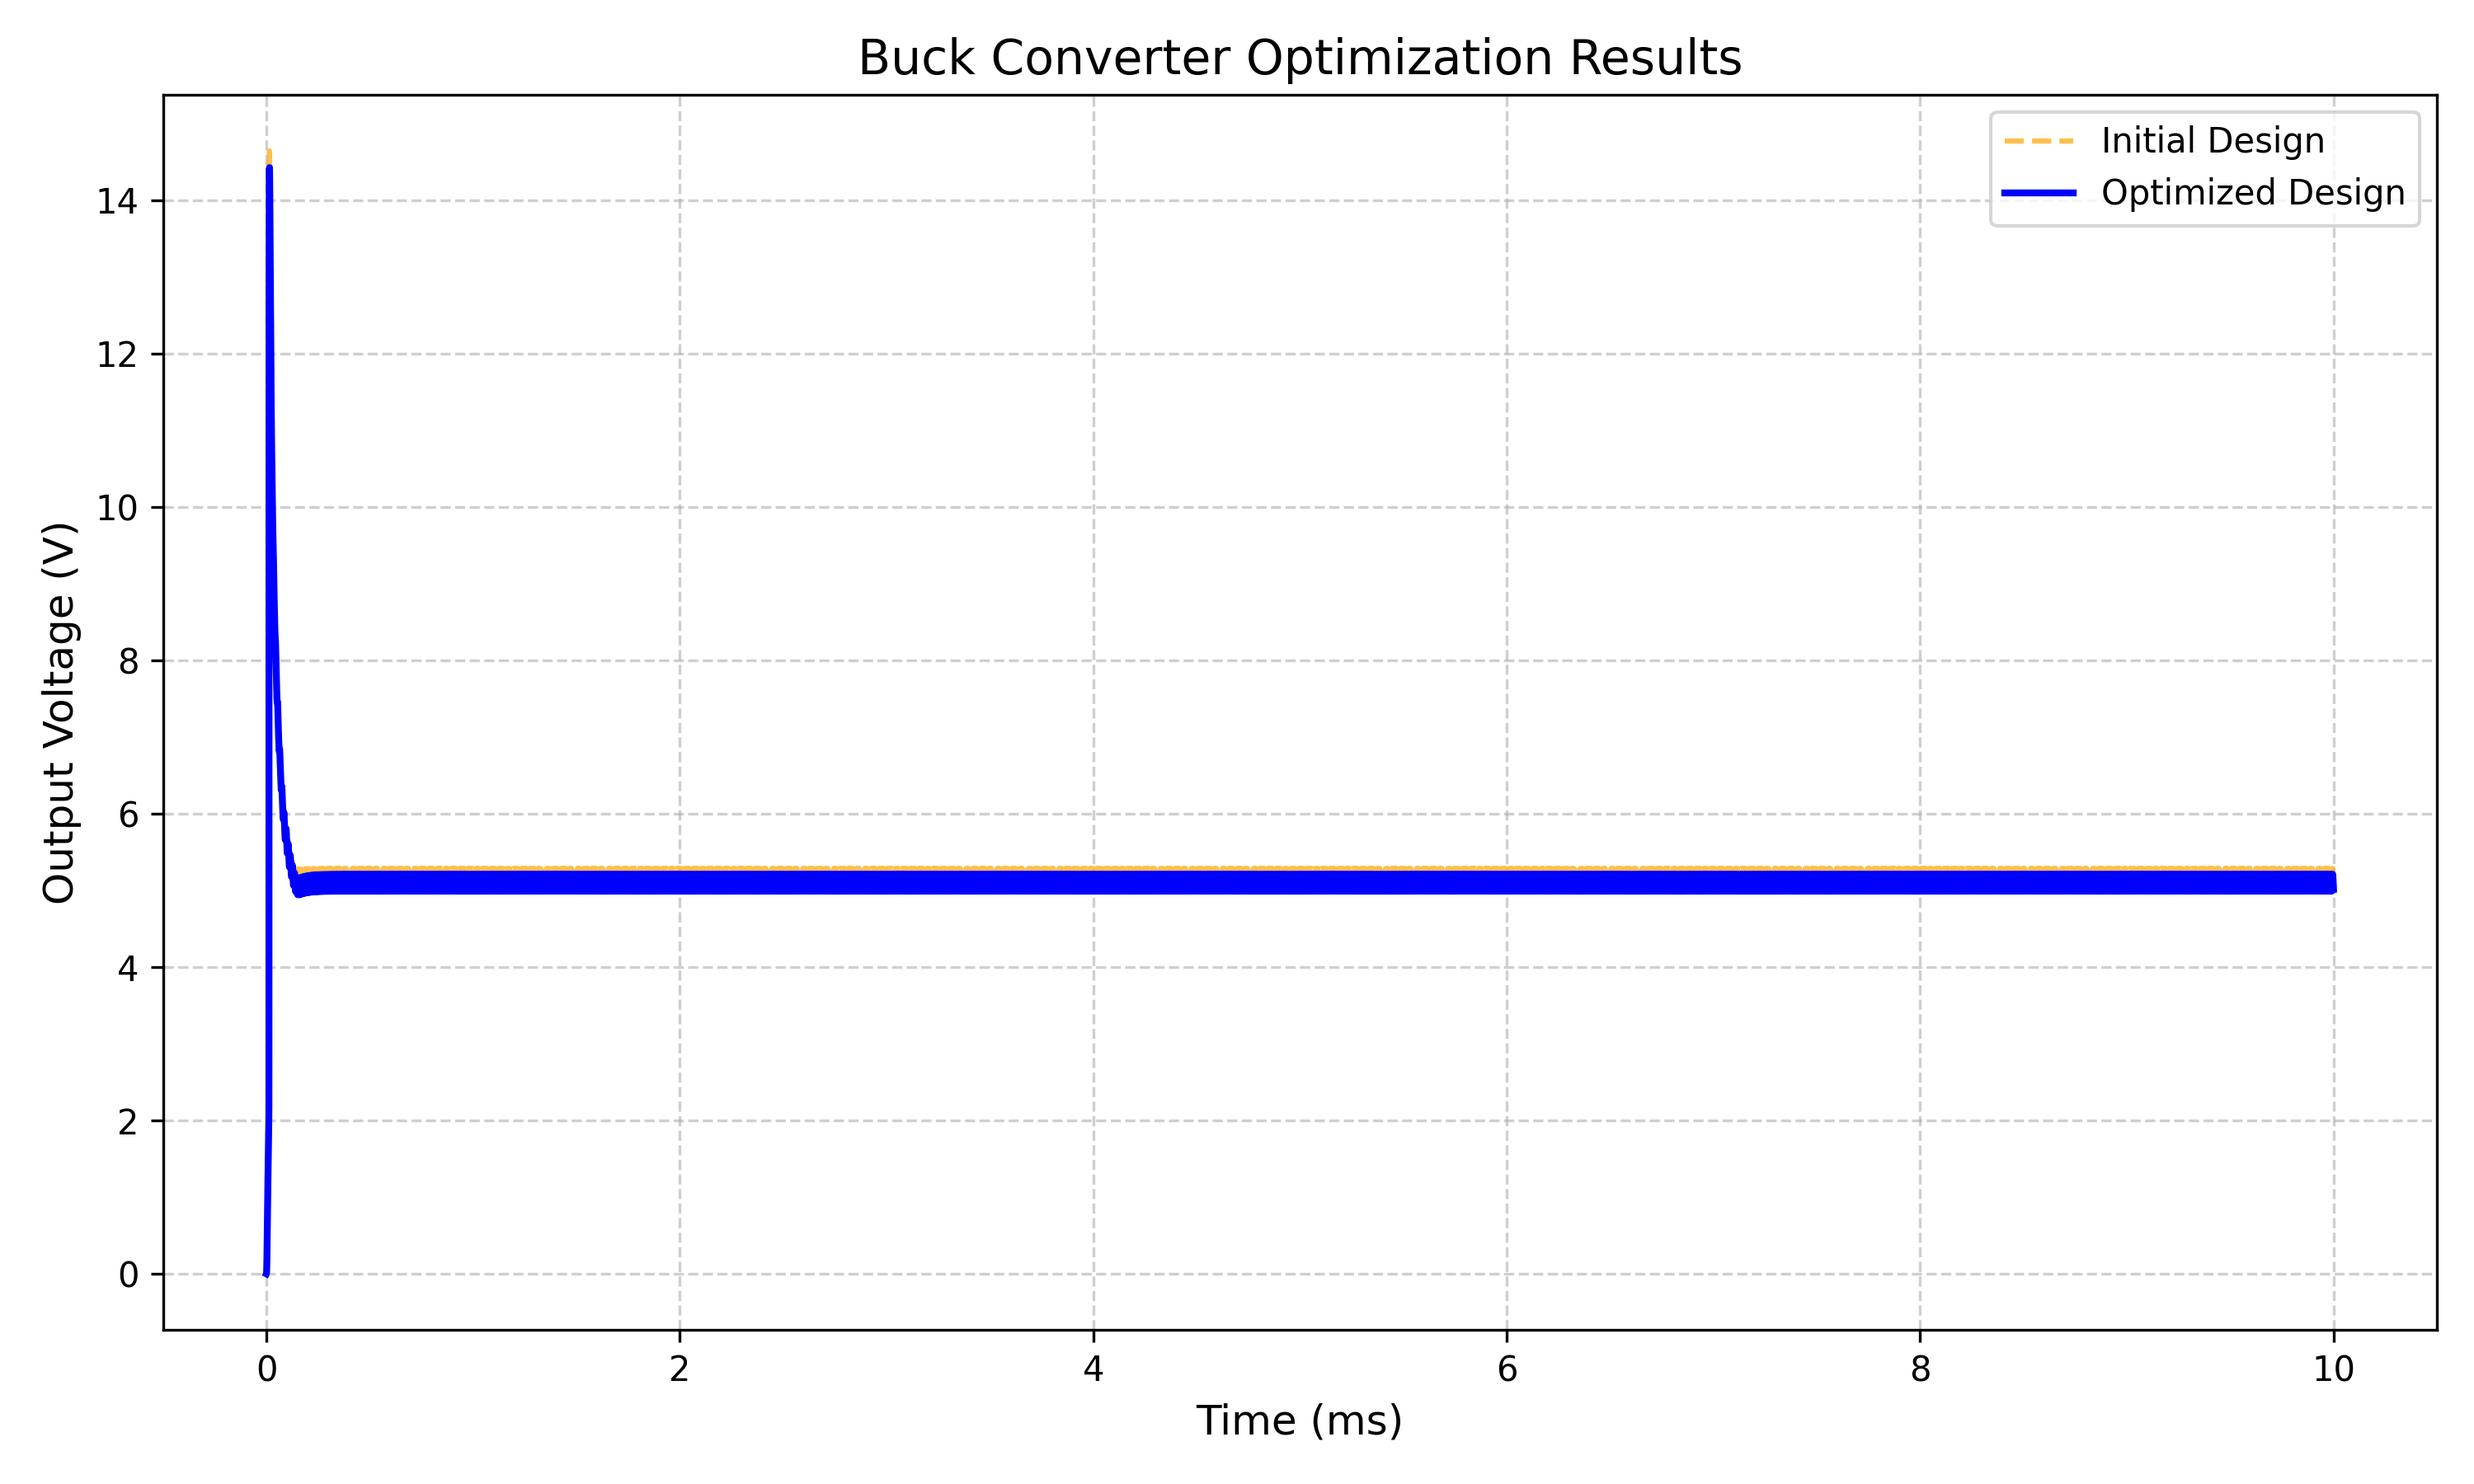
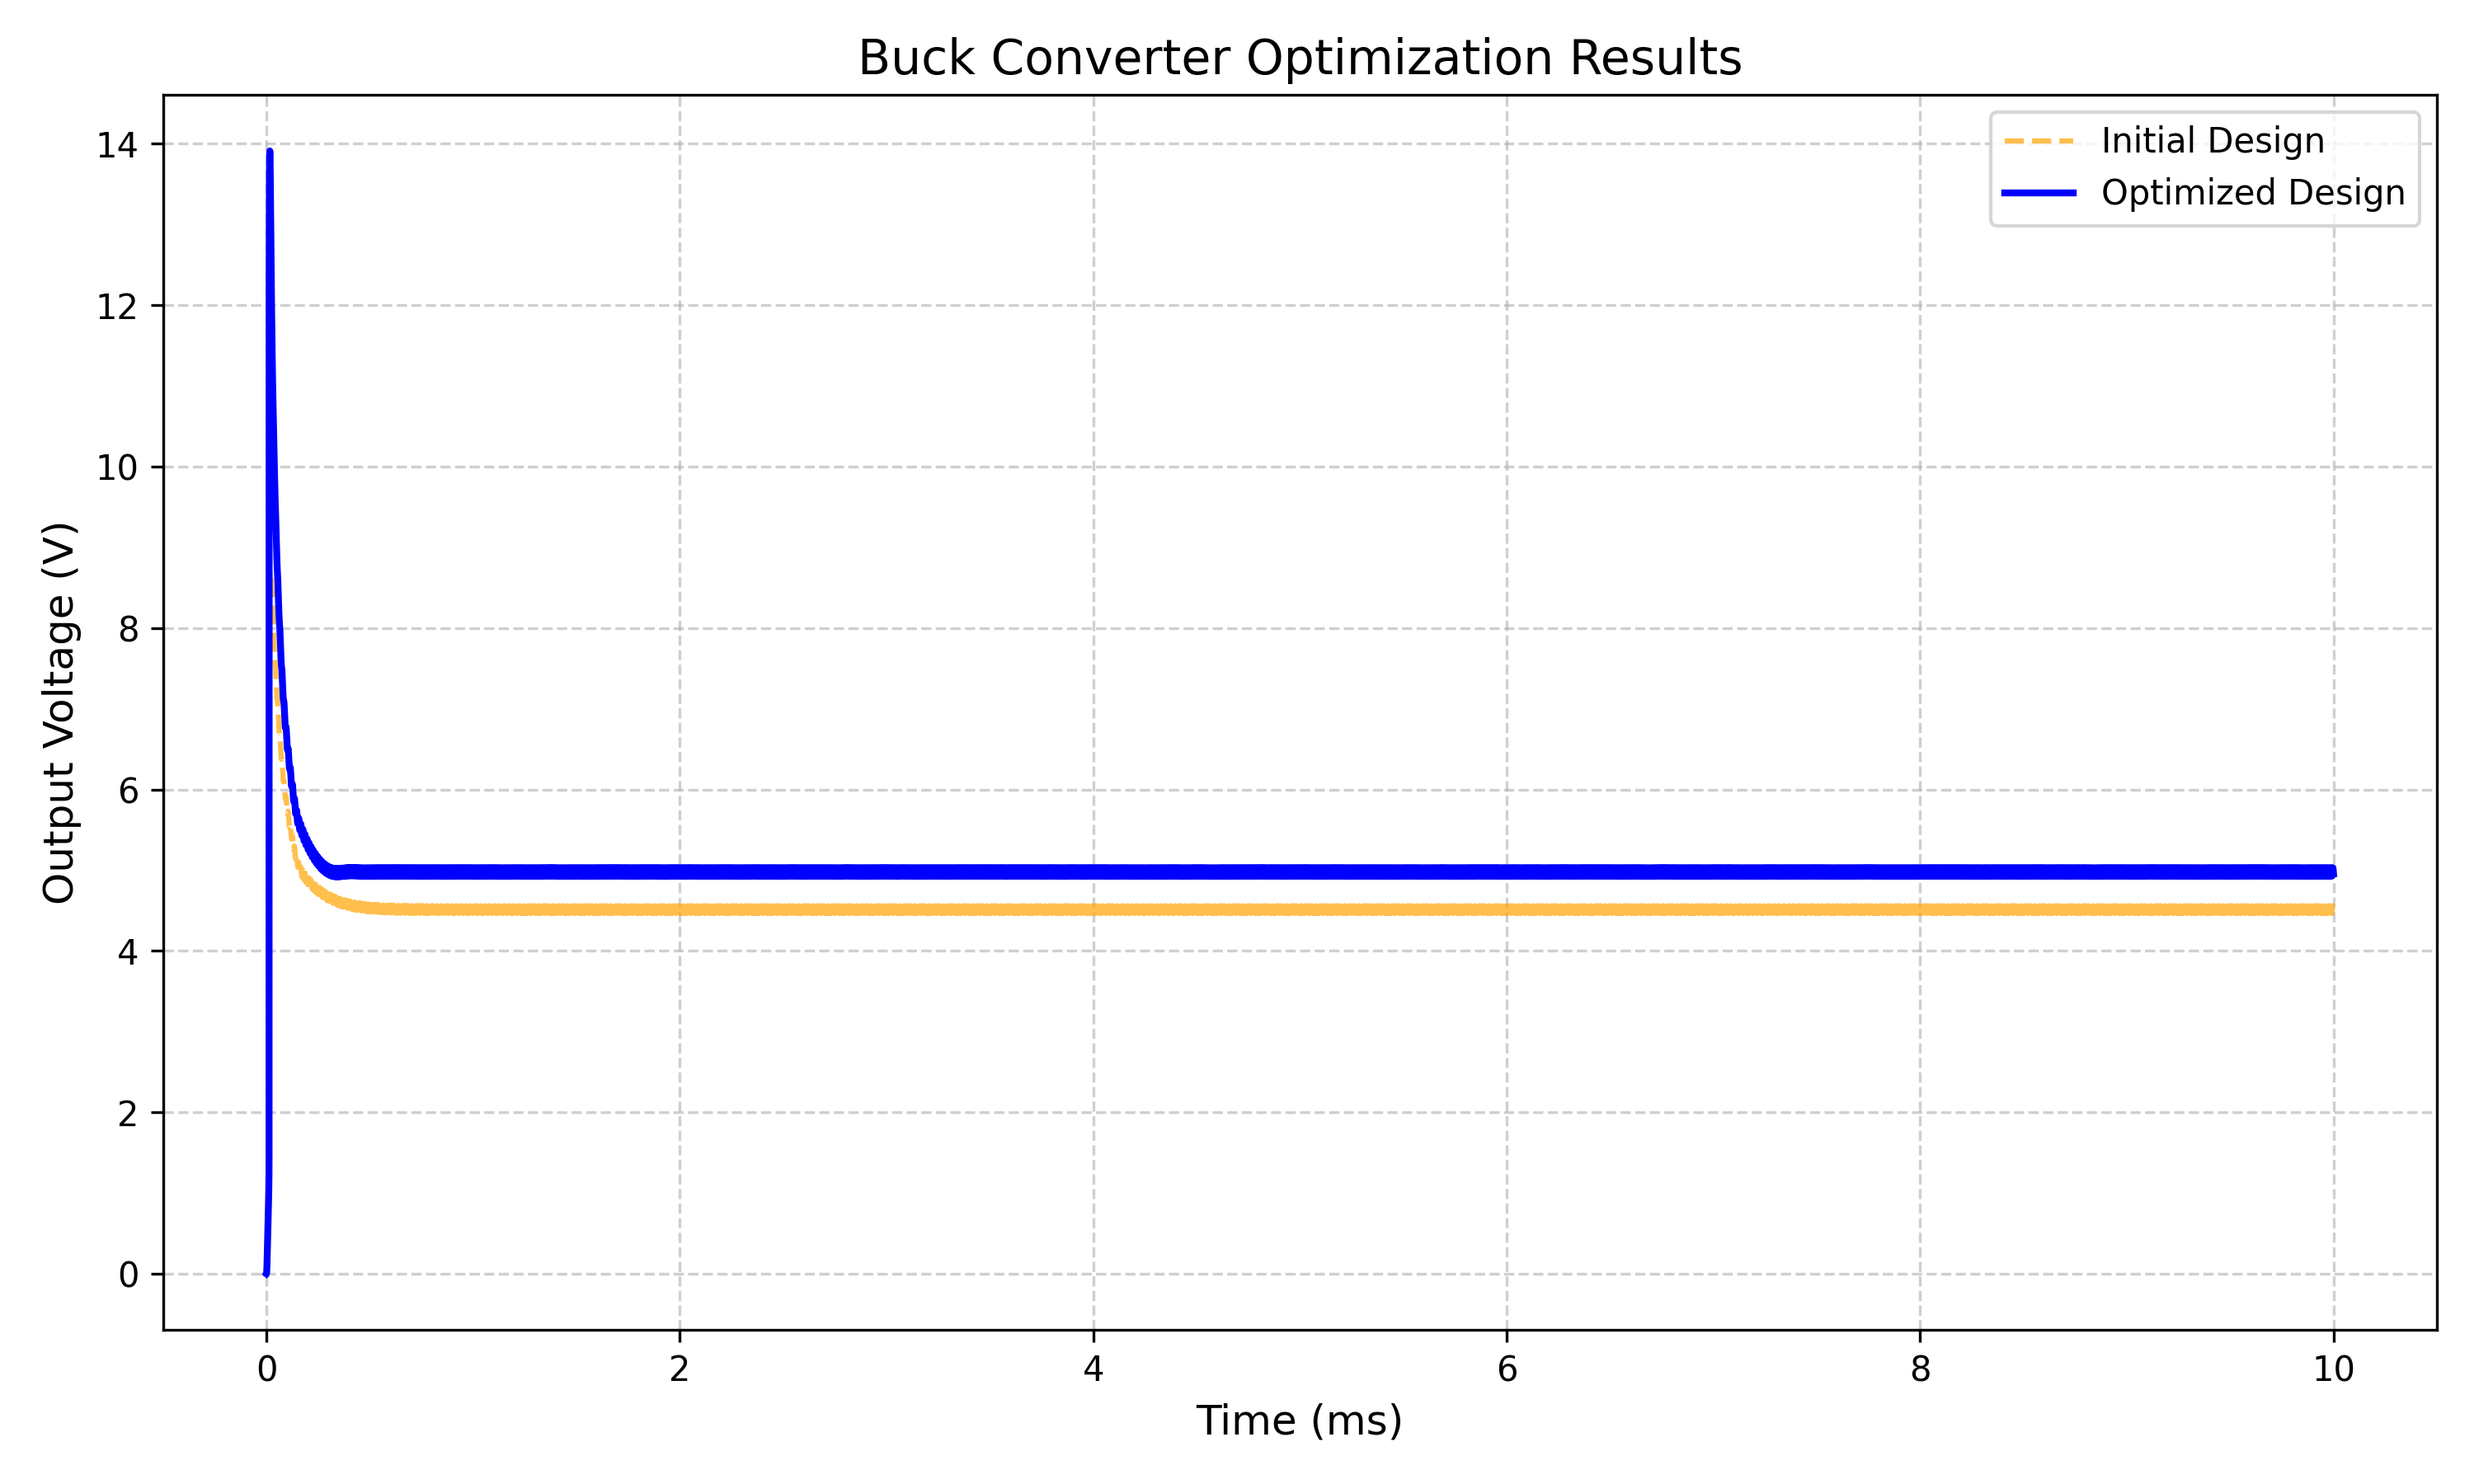
succesfull simulation

diff --git a/PowerAgent/experiment_results/agent_memory.md b/PowerAgent/experiment_results/agent_memory.md
@@ -2,7 +2,7 @@
 
 # Optimization Session Started
 
-Error initializing circuit: [Errno 2] No such file or directory: 'c:\\Users\\david\\Desktop\\PhD\\progetti\\SpiceAgent\\PowerAgent\\..\\Circuits\\Buck_converter\\Buck_converter_real.net'
+Initial circuit state set and netlist saved.
 
 **Agent Thought (Iter 0):**
 
@@ -15,11 +15,11 @@ Current Circuit Configuration (Buck_converter_real_sim.net):
 - L1: Flux={L_nom}*{I_sat}*tanh(x/{I_sat})
 - M1: IRF1404
 - Rload: 6
-- Vsw: PULSE(0 10 0 1n 1n 3.17u 10u)
+- Vsw: PULSE(0 10 0 1n 1n 3.38u 10u)
 - Cout: Cout out 0 Q={C_min}*x + ({C_nom}-{C_min})*{V_coeff}*tanh(x/{V_coeff})
 
 Parameters:
-.param C_nom= 20u C_min= 1u V_coeff= 10 L_nom= 10u I_sat= 5
+.param C_nom= 33u C_min= 1u V_coeff= 10 L_nom= 14u I_sat= 5
 
 
 **Agent Thought (Iter 1):**
@@ -34,29 +34,29 @@ Parameters:
 
 **Tool Call (calculate_metrics):**
 Simulation Metrics:
-{'v_mean': 5.157006740570068, 'ripple_pp': 0.22586727142333984, 'ripple_percent': 4.379813373088837, 'max_voltage': 5.2887091636657715, 'min_voltage': 5.062841892242432}
+{'v_mean': 4.503204822540283, 'ripple_pp': 0.0959620475769043, 'ripple_percent': 2.130972221493721, 'max_voltage': 4.560213565826416, 'min_voltage': 4.464251518249512}
 
 **Agent Thought (Iter 3):**
-The initial simulation results show:
+### Current Performance
+- **Mean Output Voltage (V_mean):** 4.50V
+- **Output Ripple (Peak-to-Peak):** 0.096V
+- **Output Ripple (%):** 2.13%
 
-- Mean Output Voltage (V_mean): 5.16V
-- Output Ripple: 0.226V (4.38%)
+### Observations
+- The mean output voltage is below the target range of 5V ± 0.1V.
+- The output ripple is within the acceptable range (< 0.25V).
 
-The ripple is within the desired range, but the mean output voltage is slightly above the target range of 4.9V to 5.1V. We need to adjust the duty cycle to bring the mean output voltage within the specified range.
+### Next Steps
+To increase the mean output voltage to approximately 5V, we need to adjust the duty cycle (D) of the switching signal. The current duty cycle is calculated as follows:
+- **Current Duty Cycle (D):** \( \frac{3.38\mu s}{10\mu s} = 0.338 \)
 
-### Current Duty Cycle
-- Current Ton = 3.17u
-- Current Tperiod = 10u
-- Current Duty Cycle (D) = 3.17u / 10u = 0.317
+To achieve a mean output voltage of 5V with an input voltage of 12V, the duty cycle should be approximately 0.417. Let's adjust the duty cycle accordingly.
 
-### Target Duty Cycle
-To achieve a V_mean of 5V with Vin of 12V:
-- Target Duty Cycle (D) = 5V / 12V = 0.417
+### Duty Cycle Adjustment
+- **Target Duty Cycle (D_target):** 0.417
+- **New Ton:** \( 0.417 \times 10\mu s = 4.17\mu s \)
 
-### Adjustment
-- New Ton = 0.417 * 10u = 4.17u
-
-Let's update the duty cycle and re-simulate.
+Let's update the circuit with this new Ton value and simulate again.
 
 **Tool Call (update_circuit):**
 Updating components:
@@ -77,34 +77,41 @@ Updating components:
 
 **Tool Call (calculate_metrics):**
 Simulation Metrics:
-{'v_mean': 6.201581954956055, 'ripple_pp': 0.27759456634521484, 'ripple_percent': 4.476189613342285, 'max_voltage': 6.3520684242248535, 'min_voltage': 6.074473857879639}
+{'v_mean': 5.517673015594482, 'ripple_pp': 0.11659574508666992, 'ripple_percent': 2.1131325513124466, 'max_voltage': 5.581236839294434, 'min_voltage': 5.464641094207764}
 
 **Agent Thought (Iter 6):**
-The updated simulation results show:
+### Current Performance After Duty Cycle Adjustment
+- **Mean Output Voltage (V_mean):** 5.52V
+- **Output Ripple (Peak-to-Peak):** 0.117V
+- **Output Ripple (%):** 2.11%
 
-- Mean Output Voltage (V_mean): 6.20V
-- Output Ripple: 0.278V (4.48%)
+### Observations
+- The mean output voltage is now above the target range of 5V ± 0.1V.
+- The output ripple remains within the acceptable range (< 0.25V).
 
-The mean output voltage is now too high, indicating that the duty cycle adjustment was excessive. Let's refine the duty cycle to bring the mean output voltage closer to the target of 5V.
+### Next Steps
+The mean output voltage is too high, indicating that the duty cycle is slightly overestimated. We need to adjust the duty cycle downwards to bring the mean output voltage within the target range.
 
-### Current Duty Cycle
-- Current Ton = 4.17u
-- Current Tperiod = 10u
-- Current Duty Cycle (D) = 4.17u / 10u = 0.417
+### Duty Cycle Adjustment
+- **Current Duty Cycle (D_current):** 0.417
+- **Measured V_mean:** 5.52V
+- **Target V_mean:** 5.0V
 
-### Adjustment
-Given the non-linear behavior, let's empirically adjust the duty cycle to a slightly lower value to bring the V_mean closer to 5V.
+Using the formula for duty cycle adjustment:
+\[ D_{\text{new}} = D_{\text{current}} \times \left(\frac{V_{\text{target}}}{V_{\text{measured}}}\right) \]
 
-- New Ton = 3.5u (for a duty cycle of 0.35)
+\[ D_{\text{new}} = 0.417 \times \left(\frac{5.0}{5.52}\right) \approx 0.378 \]
 
-Let's update the duty cycle and re-simulate.
+- **New Ton:** \( 0.378 \times 10\mu s = 3.78\mu s \)
+
+Let's update the circuit with this new Ton value and simulate again.
 
 **Tool Call (update_circuit):**
 Updating components:
-- Vsw -> PULSE(0 10 0 1n 1n 3.5u 10u)
+- Vsw -> PULSE(0 10 0 1n 1n 3.78u 10u)
 
 
-**State Update:** Circuit values updated: {'Vsw': 'PULSE(0 10 0 1n 1n 3.5u 10u)'}
+**State Update:** Circuit values updated: {'Vsw': 'PULSE(0 10 0 1n 1n 3.78u 10u)'}
 
 **Agent Thought (Iter 7):**
 
@@ -118,145 +125,29 @@ Updating components:
 
 **Tool Call (calculate_metrics):**
 Simulation Metrics:
-{'v_mean': 5.354577541351318, 'ripple_pp': 0.2357783317565918, 'ripple_percent': 4.403303936123848, 'max_voltage': 5.4880876541137695, 'min_voltage': 5.252309322357178}
+{'v_mean': 4.973108768463135, 'ripple_pp': 0.10577535629272461, 'ripple_percent': 2.126946300268173, 'max_voltage': 5.032140254974365, 'min_voltage': 4.926364898681641}
 
 **Agent Thought (Iter 9):**
-The updated simulation results show:
+### Final Performance
+- **Mean Output Voltage (V_mean):** 4.97V
+- **Output Ripple (Peak-to-Peak):** 0.106V
+- **Output Ripple (%):** 2.13%
 
-- Mean Output Voltage (V_mean): 5.35V
-- Output Ripple: 0.236V (4.40%)
+### Observations
+- The mean output voltage is now within the target range of 5V ± 0.1V.
+- The output ripple remains well within the acceptable range (< 0.25V).
 
-The mean output voltage is still above the target range. Let's further reduce the duty cycle to bring the V_mean closer to 5V.
+### Summary of Final Component Values
+- **Vin:** 12V
+- **Cin:** 300uF
+- **L1:** 14uH
+- **Cout:** 33uF
+- **Rload:** 6 Ohms
+- **Vsw:** PULSE(0 10 0 1n 1n 3.78u 10u)
+- **D1:** MBR745
+- **M1:** IRF1404
 
-### Current Duty Cycle
-- Current Ton = 3.5u
-- Current Tperiod = 10u
-- Current Duty Cycle (D) = 3.5u / 10u = 0.35
-
-### Adjustment
-Let's try a slightly lower duty cycle to fine-tune the output voltage.
-
-- New Ton = 3.3u (for a duty cycle of 0.33)
-
-Let's update the duty cycle and re-simulate.
-
-**Tool Call (update_circuit):**
-Updating components:
-- Vsw -> PULSE(0 10 0 1n 1n 3.3u 10u)
-
-
-**State Update:** Circuit values updated: {'Vsw': 'PULSE(0 10 0 1n 1n 3.3u 10u)'}
-
-**Agent Thought (Iter 10):**
-
-
-**Tool Call (simulate_circuit):** Starting simulation...
-
-**Tool Call (simulate_circuit):** Simulation completed.
-
-**Agent Thought (Iter 11):**
-
-
-**Tool Call (calculate_metrics):**
-Simulation Metrics:
-{'v_mean': 5.253493309020996, 'ripple_pp': 0.23151588439941406, 'ripple_percent': 4.406893998384476, 'max_voltage': 5.387548923492432, 'min_voltage': 5.156033039093018}
-
-**Agent Thought (Iter 12):**
-The updated simulation results show:
-
-- Mean Output Voltage (V_mean): 5.25V
-- Output Ripple: 0.232V (4.41%)
-
-The mean output voltage is still slightly above the target range. Let's make a final adjustment to the duty cycle to bring the V_mean within the desired range.
-
-### Current Duty Cycle
-- Current Ton = 3.3u
-- Current Tperiod = 10u
-- Current Duty Cycle (D) = 3.3u / 10u = 0.33
-
-### Adjustment
-Let's try a slightly lower duty cycle to fine-tune the output voltage.
-
-- New Ton = 3.2u (for a duty cycle of 0.32)
-
-Let's update the duty cycle and re-simulate.
-
-**Tool Call (update_circuit):**
-Updating components:
-- Vsw -> PULSE(0 10 0 1n 1n 3.2u 10u)
-
-
-**State Update:** Circuit values updated: {'Vsw': 'PULSE(0 10 0 1n 1n 3.2u 10u)'}
-
-**Agent Thought (Iter 13):**
-
-
-**Tool Call (simulate_circuit):** Starting simulation...
-
-**Tool Call (simulate_circuit):** Simulation completed.
-
-**Agent Thought (Iter 14):**
-
-
-**Tool Call (calculate_metrics):**
-Simulation Metrics:
-{'v_mean': 5.184828281402588, 'ripple_pp': 0.22745561599731445, 'ripple_percent': 4.386945813894272, 'max_voltage': 5.316605567932129, 'min_voltage': 5.0891499519348145}
-
-**Agent Thought (Iter 15):**
-The updated simulation results show:
-
-- Mean Output Voltage (V_mean): 5.18V
-- Output Ripple: 0.227V (4.39%)
-
-The mean output voltage is now closer to the target range, but still slightly above. Let's make a final adjustment to the duty cycle to bring the V_mean within the desired range.
-
-### Current Duty Cycle
-- Current Ton = 3.2u
-- Current Tperiod = 10u
-- Current Duty Cycle (D) = 3.2u / 10u = 0.32
-
-### Adjustment
-Let's try a slightly lower duty cycle to fine-tune the output voltage.
-
-- New Ton = 3.1u (for a duty cycle of 0.31)
-
-Let's update the duty cycle and re-simulate.
-
-**Tool Call (update_circuit):**
-Updating components:
-- Vsw -> PULSE(0 10 0 1n 1n 3.1u 10u)
-
-
-**State Update:** Circuit values updated: {'Vsw': 'PULSE(0 10 0 1n 1n 3.1u 10u)'}
-
-**Agent Thought (Iter 16):**
-
-
-**Tool Call (simulate_circuit):** Starting simulation...
-
-**Tool Call (simulate_circuit):** Simulation completed.
-
-**Agent Thought (Iter 17):**
-
-
-**Tool Call (calculate_metrics):**
-Simulation Metrics:
-{'v_mean': 5.081648349761963, 'ripple_pp': 0.22205352783203125, 'ripple_percent': 4.369714483618736, 'max_voltage': 5.210824489593506, 'min_voltage': 4.988770961761475}
-
-**Agent Thought (Iter 18):**
-The final simulation results show:
-
-- Mean Output Voltage (V_mean): 5.08V
-- Output Ripple: 0.222V (4.37%)
-
-The mean output voltage is now within the target range of 4.9V to 5.1V, and the output ripple is well below the 5% threshold. The buck converter is now optimized to meet the specified requirements.
-
-### Final Component Values
-- Duty Cycle: 0.31 (Ton = 3.1u, Tperiod = 10u)
-- L1: As per initial configuration
-- Cout: As per initial configuration
-
-The circuit is now stable and meets the desired specifications for mean output voltage and ripple.
+The circuit now meets the specified requirements for mean output voltage and output ripple, ensuring stable operation.
 
 Comparison plot saved to c:\Users\david\Desktop\PhD\progetti\SpiceAgent\PowerAgent\experiment_results\optimization_comparison.png
 
